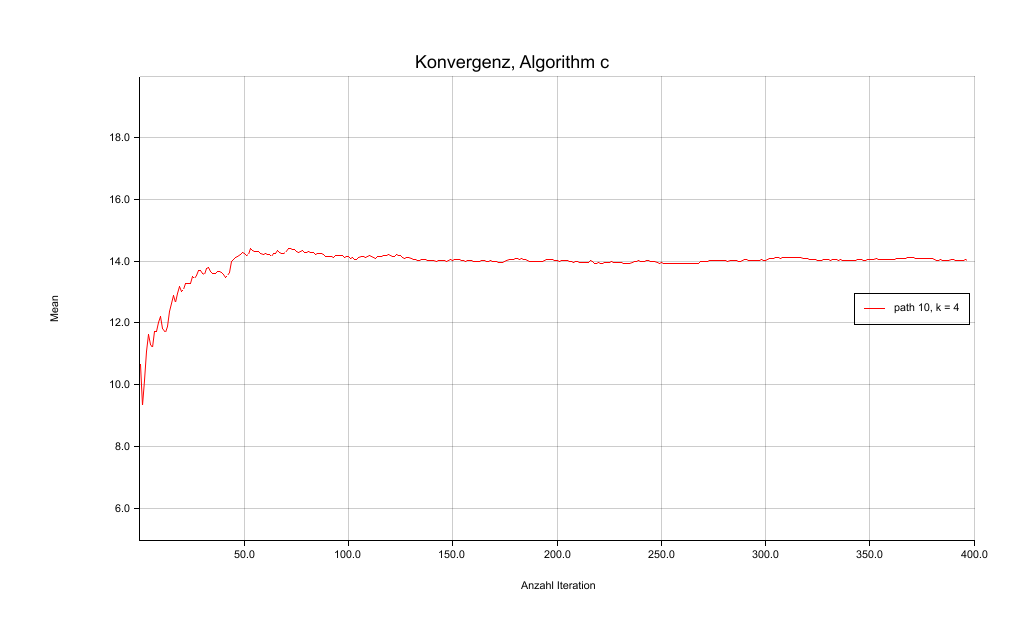
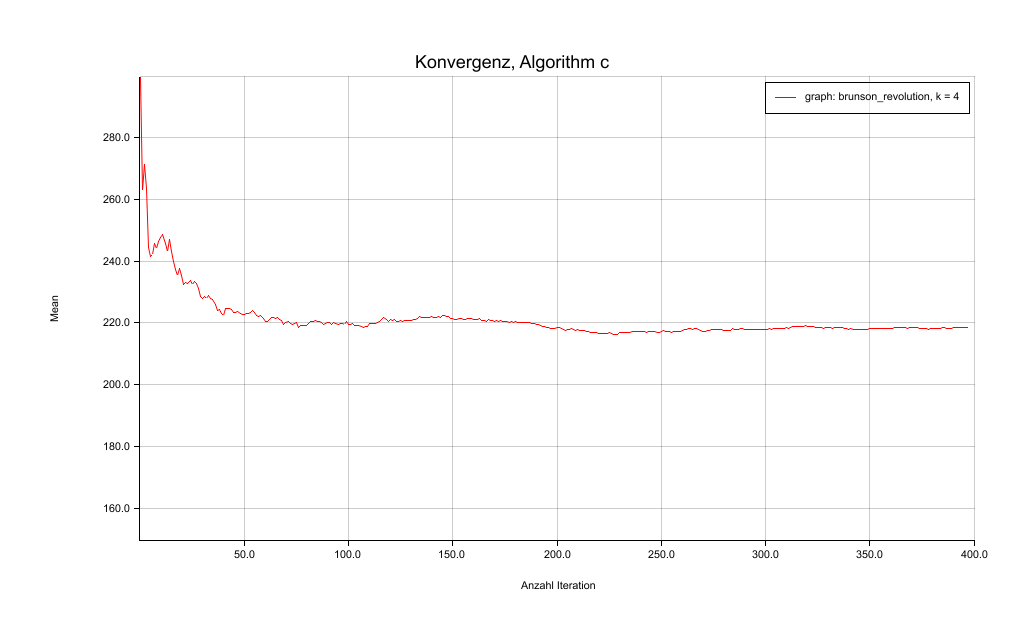
Fix std_dev and bench another graph

diff --git a/benches/convergence.rs b/benches/convergence.rs
@@ -3,14 +3,13 @@ mod utils;
 use extensor_coding::{algorithm, graph::Graph};
 use plotters::style;
 
-fn bench_convergence(num_iter: u64) -> Vec<Vec<f64>> {
+fn bench_convergence(num_iter: u64, g: Graph) -> Vec<Vec<f64>> {
     let mut all_values = vec![];
 
     for _j in 0..num_iter {
-        let g = Graph::from_graph6("src/data/path10.g6");
         let k = 4;
         let eps = 0.2;
-        let values = algorithm::c_values_t_test(g, k, eps);
+        let values = algorithm::c_values_t_test(g.clone(), k, eps);
         all_values.push(values)
     }
 
@@ -19,7 +18,9 @@ fn bench_convergence(num_iter: u64) -> Vec<Vec<f64>> {
 
 fn main() {
     let num_iter = 10;
-    let values = bench_convergence(num_iter);
+    /*
+    let g = Graph::from_graph6("src/data/path10.g6")
+    let values = bench_convergence(num_iter, g);
     let result = vec![("path 10, k = 4".to_string(), style::RED, values.clone())];
 
     let _ = utils::plot_results(
@@ -34,6 +35,30 @@ fn main() {
     let _1 = utils::plot_results_histogram(
         "Konvergenz, Algorithm c",
         (("Werte", 5u32..20u32), ("Häufigkeit", 0u32..130u32)),
+        "benches/output/convergence_histogram",
+        &result,
+    );
+    */
+    let g = Graph::from_tsv("src/data/out.brunson_revolution_revolution");
+    let values = bench_convergence(num_iter, g);
+    let result = vec![(
+        "graph: brunson_revolution, k = 4".to_string(),
+        style::RED,
+        values.clone(),
+    )];
+
+    let _ = utils::plot_results(
+        "Konvergenz, Algorithm c",
+        (("Anzahl Iteration", 0f32..400f32), ("Mean", 150f32..300f32)),
+        0,
+        "benches/output/convergence",
+        &result,
+    );
+
+    let result = vec![("path 10, k = 4".to_string(), style::BLUE, values.clone())];
+    let _1 = utils::plot_results_histogram(
+        "Konvergenz, Algorithm c",
+        (("Werte", 150u32..300u32), ("Häufigkeit", 0u32..150u32)),
         "benches/output/convergence_histogram",
         &result,
     );

diff --git a/src/algorithm/mod.rs b/src/algorithm/mod.rs
@@ -75,6 +75,7 @@ pub fn c(g: Graph, k: usize, eps: f64) -> f64 {
 pub fn c_count_iterations(g: Graph, k: usize, eps: f64) -> u32 {
     let mut step = 1u32;
     let mut values = Vec::new();
+    let mut means = Vec::new();
 
     while step < 100 * ((k as f64).powf(3.0) / eps.powf(2.0)) as u32 {
         let bernoulli_mapping = utils::create_bernoulli(g.num_vert, k);
@@ -88,11 +89,10 @@ pub fn c_count_iterations(g: Graph, k: usize, eps: f64) -> u32 {
         let x_j = (coeffs.abs() as f64) / denom;
         values.push(x_j);
 
-        step += 1;
-
         let n = step as f64;
         let mean = utils::mean(&values);
-        let std_dev = utils::std_dev(&values);
+        means.push(mean);
+        let std_dev = utils::std_dev(&means);
         let t_val = utils::t_value(step - 1);
 
         println!("step: {}, mean: {}", step, mean);
@@ -100,6 +100,7 @@ pub fn c_count_iterations(g: Graph, k: usize, eps: f64) -> u32 {
         {
             return step;
         }
+        step += 1;
     }
 
     step
@@ -109,6 +110,7 @@ pub fn c_count_iterations(g: Graph, k: usize, eps: f64) -> u32 {
 pub fn c_values_std_dev(g: Graph, k: usize, eps: f64) -> Vec<f64> {
     let mut step = 1;
     let mut values = Vec::new();
+    let mut means = Vec::new();
     let mut std_dev = f64::INFINITY;
 
     while std_dev > eps {
@@ -123,13 +125,10 @@ pub fn c_values_std_dev(g: Graph, k: usize, eps: f64) -> Vec<f64> {
         let x_j = (coeffs.abs() as f64) / denom;
         values.push((values.iter().sum::<f64>() + x_j) / (values.len() + 1) as f64);
 
-        std_dev = utils::std_dev(&values);
-        println!(
-            "std_dev: {}, mean: {}, step: {}",
-            std_dev,
-            utils::mean(&values),
-            step
-        );
+        let mean = utils::mean(&values);
+        std_dev = utils::std_dev(&means);
+
+        println!("std_dev: {}, mean: {}, step: {}", std_dev, mean, step);
 
         step += 1;
     }

diff --git a/src/bin/main.rs b/src/bin/main.rs
@@ -4,9 +4,9 @@ use std::io::Write;
 use std::path::Path;
 
 fn main() {
-    //let g = Graph::from_tsv("src/data/out.arenas-jazz");
-    // let g = Graph::from_tsv("src/data/out.brunson_revolution_revolution");
-    let g = Graph::from_graph6("src/data/path10.g6");
+    // let g = Graph::from_tsv("src/data/out.arenas-jazz");
+    let g = Graph::from_tsv("src/data/out.brunson_revolution_revolution");
+    // let g = Graph::from_graph6("src/data/path10.g6");
     let k = 4;
 
     let path = Path::new("debug/debug.txt");

diff --git a/benches/utils.rs b/benches/utils.rs
@@ -78,6 +78,7 @@ pub fn plot_results(
     run_chart
         .configure_series_labels()
         .background_style(&WHITE.mix(0.5))
+        .position(SeriesLabelPosition::UpperRight)
         .border_style(&BLACK)
         .draw()?;
 
